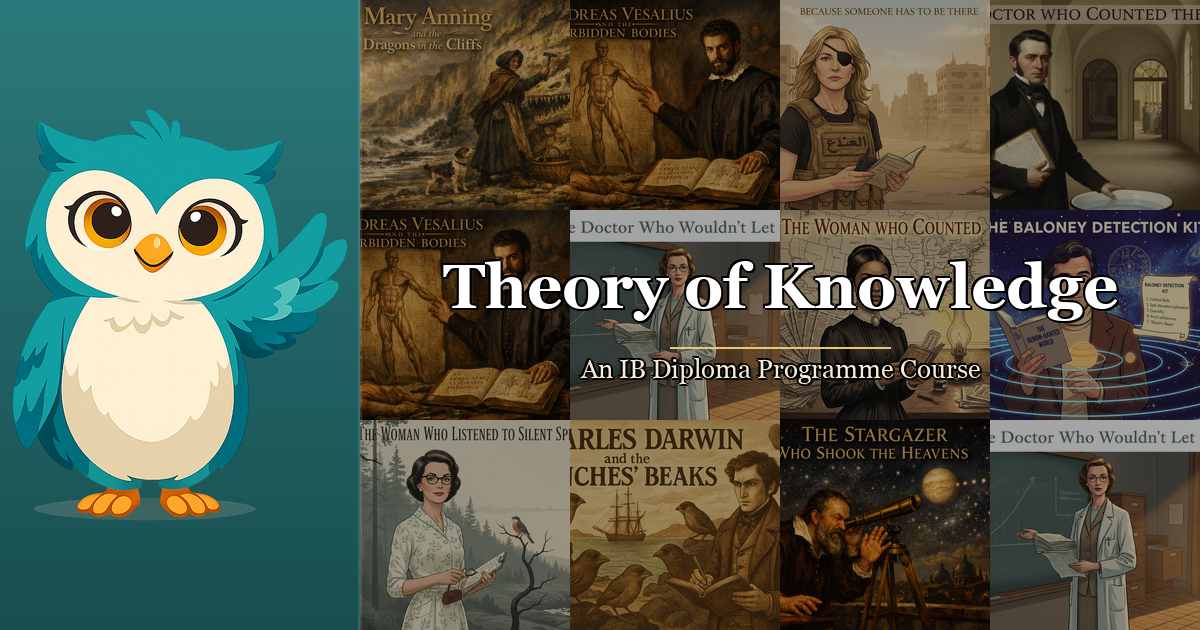
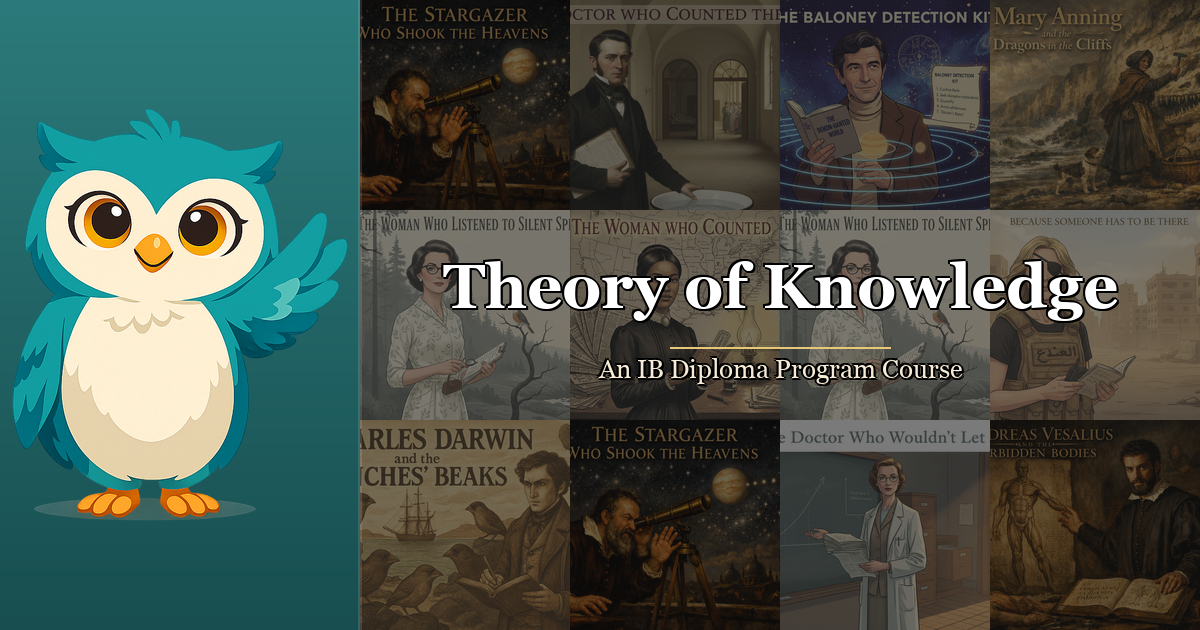
made the cover have better contrast with the title

diff --git a/scripts/generate_cover.py b/scripts/generate_cover.py
@@ -99,6 +99,9 @@ def build_montage() -> Image.Image:
         side = max(tile_w, tile_h)
         tile = square_crop(im, side)
         tile = tile.crop((0, 0, tile_w, tile_h))
+        tile = ImageEnhance.Contrast(tile).enhance(0.70)
+        tile = ImageEnhance.Brightness(tile).enhance(0.88)
+        tile = ImageEnhance.Color(tile).enhance(0.90)
         montage.paste(tile, (col * tile_w, row * tile_h))
 
     return montage
@@ -110,20 +113,20 @@ def darken_center_for_title(montage: Image.Image) -> Image.Image:
     draw.rectangle([(0, 0), montage.size], fill=(0, 0, 0, 90))
 
     cx, cy = montage.width // 2, montage.height // 2
-    rx, ry = int(montage.width * 0.42), int(montage.height * 0.32)
+    rx, ry = int(montage.width * 0.50), int(montage.height * 0.38)
     radial = Image.new("L", montage.size, 0)
     rdraw = ImageDraw.Draw(radial)
     steps = 60
     for i in range(steps):
         t = i / steps
-        alpha = int(160 * (1 - t))
+        alpha = int(185 * (1 - t))
         ex = int(rx * (0.2 + 0.8 * t))
         ey = int(ry * (0.2 + 0.8 * t))
         rdraw.ellipse(
             [(cx - ex, cy - ey), (cx + ex, cy + ey)],
             fill=alpha,
         )
-    radial = radial.filter(ImageFilter.GaussianBlur(radius=40))
+    radial = radial.filter(ImageFilter.GaussianBlur(radius=50))
 
     dark_layer = Image.new("RGBA", montage.size, (5, 18, 30, 255))
     composed = montage.convert("RGBA")